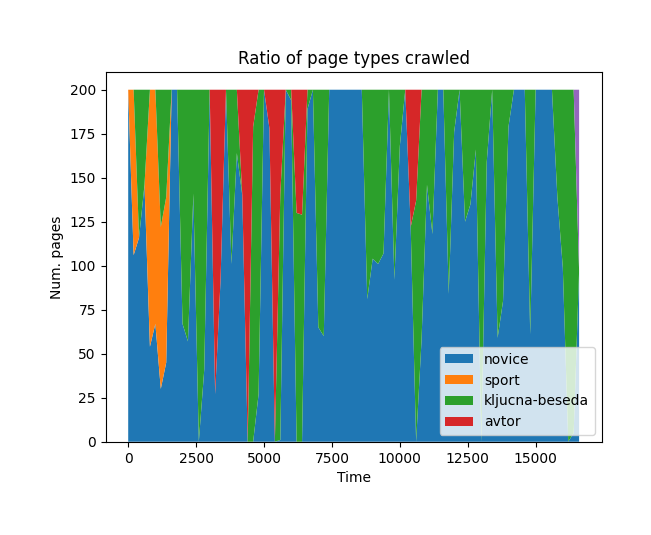
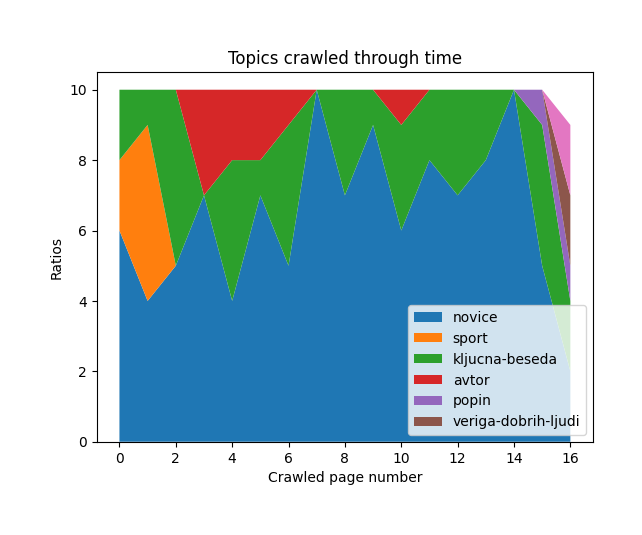
Crawler path visualization fix

Changed region(s): [[0.0623, 0.1495, 0.9346, 0.9271], [0.3427, 0.0897, 0.7477, 0.1196], [0.6854, 0.8374, 0.7477, 0.8673]]

diff --git a/pa1/crawler/client/visualize_data.py b/pa1/crawler/client/visualize_data.py
@@ -1,4 +1,4 @@
-from math import log, sqrt
+from math import ceil, log, sqrt
 from urllib.parse import urlparse
 
 from pycirclize import Circos
@@ -116,17 +116,15 @@ def visualize_path(page_links):
 
     section_counters = {}
 
-    new_id_map = {}
+    used_ids = set()
 
     page_links = sorted(page_links, key=lambda x: x.get("accessed_time"))
 
     ordered_sections = []
 
     for link in page_links:
-        p1_id = link.get("from_page")
-        p2_id = link.get("to_page")
+        from_id = link.get("from_page")
         from_page_url = link.get("from_url")
-        to_page_url = link.get("to_url")
 
         from_parsed = urlparse(from_page_url)
 
@@ -137,18 +135,22 @@ def visualize_path(page_links):
 
         if from_parsed_section not in section_counters:
             section_counters[from_parsed_section] = 1
-        else:
+        elif from_id not in used_ids:
             section_counters[from_parsed_section] += 1
-
+            used_ids.add(from_id)
+        else:
+            continue
+        if from_parsed_section == "veriga-dobrih-ljudi":
+            print("here")
         ordered_sections.append(from_parsed_section)
 
-    time_slot_size = 200
+    time_slot_size = 10
     counter = 0
     time_slot_counter = {s: 0 for s in section_counters.keys()}
-
     stack_plot_data = {s: [] for s in section_counters.keys()}
 
     for section in ordered_sections:
+        print(section)
         if section not in time_slot_counter:
             time_slot_counter[section] = 1
         else:
@@ -157,18 +159,24 @@ def visualize_path(page_links):
         if counter >= time_slot_size:
             for k,v in time_slot_counter.items():
                 stack_plot_data[k].append(v)
+            print(time_slot_counter)
             counter = 0
             time_slot_counter = {s: 0 for s in section_counters.keys()}
+            print(time_slot_counter)
+    if counter > 0:
+        for k,v in time_slot_counter.items():
+            stack_plot_data[k].append(v)
 
     #print(new_id_map)
+    print(stack_plot_data)
 
     fig, ax = plt.subplots()
-    ax.stackplot(range(0, len(links)-time_slot_size, time_slot_size), stack_plot_data.values(),
+    ax.stackplot(range(0, ceil(len(used_ids) / time_slot_size)), stack_plot_data.values(),
                 labels=stack_plot_data.keys(), alpha=1)
     ax.legend(loc='lower right')
-    ax.set_title('Page topics crawled')
-    ax.set_xlabel('Time')
-    ax.set_ylabel('Num. pages')
+    ax.set_title('Topics crawled through time')
+    ax.set_xlabel('Crawled page number')
+    ax.set_ylabel('Ratios')
     plt.savefig("crawler_path.png")
     
 
@@ -180,11 +188,11 @@ if __name__ == "__main__":
 
     links = _db_api.list_links_with_urls()
 
-    k = 100000
+    k = 15000
     k = min(k, len(links))
     sampled_links = random.sample(links, k)
 
     print(sampled_links[0])
     print(len(sampled_links))
 
-    visualize_links(sampled_links)
+    visualize_path(sampled_links)
